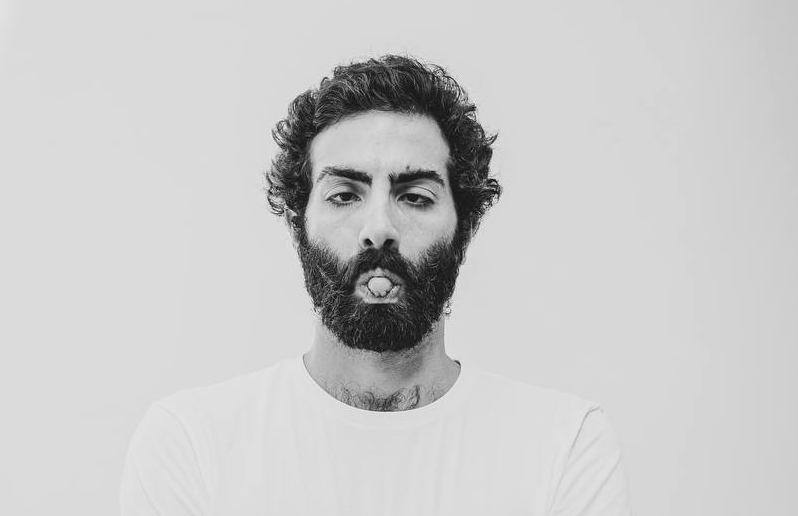
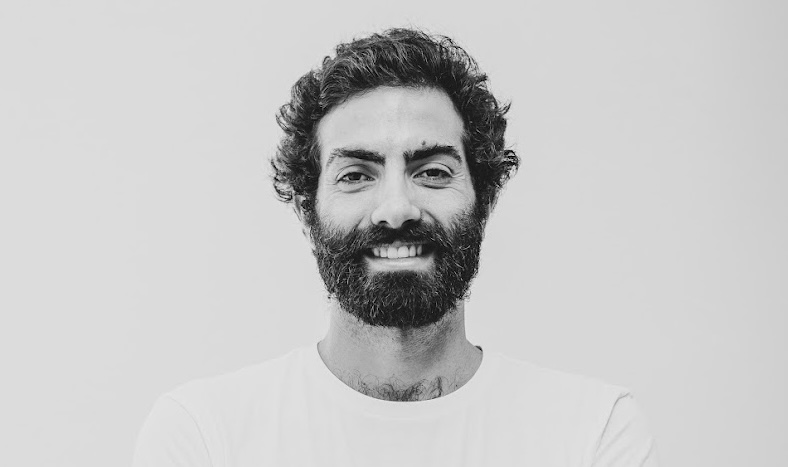
update

Changed region(s): [[0.335, 0.06, 0.6701, 0.8694]]

diff --git a/theme/templates/talks.html b/theme/templates/talks.html
@@ -1,14 +1,12 @@
-{% extends "base.html" %}
-
-{% block title %}{{ page.title }} - {{ SITENAME }} {% endblock %}
-
-
-{% block content %}
-        <div>
-
-<div class="talks">
-        {{ page.content }}
+{% extends "base.html" %} {% block title %}{{ SITENAME }}{% endblock %} {% block
+content %}
+<div class="article-list nu">
+  {% for talk in TALKS %}
+  <div class="article-content">
+    <span>{{ talk.text }}</span>- {% for link in talk.links %}
+    <a href="{{ link.url }}">{{ link.text }}</a> {% endfor %}
+  </div>
+  <div></div>
+  {% else %} No posts yet! {% endfor %}
 </div>
-
-        </div>
 {% endblock %}

diff --git a/pelicanconf.py b/pelicanconf.py
@@ -1,5 +1,3 @@
-from typing import List, Dict, Any
-
 AUTHOR = "Duarte O.Carmo"
 SITENAME = "Duarte O.Carmo"
 SITEURL = ""
@@ -88,7 +86,7 @@ MARKDOWN = {
         "markdown.extensions.toc",
         "markdown.extensions.fenced_code",
         "markdown.extensions.codehilite",
-        "markdown.extensions.tables"
+        "markdown.extensions.tables",
     ]
 }
 
@@ -111,34 +109,175 @@ SITEMAP = {
         "pages": "hourly",
     },
 }
-
-# Define a TALKS variable accessible in your templates
-TALKS: List[Dict[str, Any]] = [
+TALKS = [
     {
-        "title": "Panel: The Dashboard That Grew - A Scaling Saga",
-        "url": "https://pydata.org/global2024",
-        "resources": [
-            {"text": "slides", "url": "/pdfs/pydata-global-panel-the-dashboard-that-grew.pdf"}
+        "text": "Panel: The Dashboard That Grew - A Scaling Saga",
+        "links": [
+            {"text": "PyData Global 2024", "url": "https://pydata.org/global2024"},
+            {
+                "text": "slides",
+                "url": "/pdfs/pydata-global-panel-the-dashboard-that-grew.pdf",
+            },
         ],
     },
     {
-        "title": "You also hate SQL? Let the LLM handle it",
-        "url": "https://pyconwroclaw.com/",
-        "resources": [
-            {"text": "slides", "url": "/pdfs/pycon-wroclaw-llm-text-to-sql.pdf"}
+        "text": "You also hate SQL? Let the LLM handle it",
+        "links": [
+            {"text": "PyCon Wroclaw", "url": "https://pyconwroclaw.com/"},
+            {"text": "slides", "url": "/pdfs/pycon-wroclaw-llm-text-to-sql.pdf"},
         ],
     },
     {
-        "title": "Go Time",
-        "url": "https://changelog.com/gotime/308",
-        "resources": []
+        "text": "Go Time",
+        "links": [{"text": "podcast", "url": "https://changelog.com/gotime/308"}],
     },
     {
-        "title": "The A.I. and Digital Transformation Podcast",
-        "url": "https://www.gmscconsulting.com/ai-and-digital-transformation-podcast/episode-12",
-        "resources": [
-            {"text": "video", "url": "https://youtu.be/9l0BTZipArQ?si=uSpvwFWcIjYwu7Xn"}
+        "text": "The A.I. and Digital Transformation Podcast [podcast]",
+        "links": [
+            {
+                "text": "podcast",
+                "url": "https://www.gmscconsulting.com/ai-and-digital-transformation-podcast/episode-12",
+            },
+            {
+                "text": "video",
+                "url": "https://youtu.be/9l0BTZipArQ?si=uSpvwFWcIjYwu7Xn",
+            },
         ],
     },
-    # Add more talk entries as needed
+    {
+        "text": "Verbos AI Podcast",
+        "links": [
+            {
+                "text": "podcast",
+                "url": "https://open.spotify.com/episode/0Ja8xzuiOAYZeD4WSP8TxL?si=0JFkY1fWRwCf0_BkiUUfvA&nd=1",
+            },
+            {
+                "text": "video",
+                "url": "https://youtu.be/7nT4NrdjUF4?si=oLVzEF_iRE4qz_Qy",
+            },
+        ],
+    },
+    {
+        "text": "ML in the wild 2nd Edition",
+        "links": [
+            {"text": "DIS", "url": "https://disabroad.org/copenhagen/"},
+            {"text": "slides", "url": "/pdfs/ml-in-the-wild-v2.pdf"},
+        ],
+    },
+    {
+        "text": "An introduction to Google Earth Engine [EuroSciPy]",
+        "links": [
+            {"text": "EuroSciPy", "url": "https://www.euroscipy.org/2023/"},
+            {"text": "slides", "url": "/pdfs/euroscipy-gee-intro.pdf"},
+            {
+                "text": "video",
+                "url": "https://youtu.be/GXBPOlSxfoY?si=79ZSKAFu8vdW8J8W",
+            },
+        ],
+    },
+    {
+        "text": "On Scaling Machine Learning Microservices",
+        "links": [
+            {"text": "PyCon Italia", "url": "https://pycon.it/en"},
+            {"text": "slides", "url": "/pdfs/pycon-italia-scalable-ml.pdf"},
+            {"text": "video", "url": "https://www.youtube.com/watch?v=T1Je3UHkxVk"},
+        ],
+    },
+    {
+        "text": "Real Python Podcast",
+        "links": [
+            {"text": "podcast", "url": "https://realpython.com/podcasts/rpp/150/"}
+        ],
+    },
+    {
+        "text": "ML in the wild",
+        "links": [
+            {"text": "DIS", "url": "https://disabroad.org/copenhagen/"},
+            {"text": "slides", "url": "/pdfs/ml-in-the-wild.pdf"},
+            {"text": "feedback", "url": "/pdfs/dis_feedback.pdf"},
+        ],
+    },
+    {
+        "text": "MLOps for the rest of us",
+        "links": [
+            {
+                "text": "PyData Copenhagen",
+                "url": "https://www.meetup.com/pydata-copenhagen/",
+            },
+            {"text": "slides", "url": "/pdfs/pydata-cph-mlops-for-the-rest-of-us.pdf"},
+        ],
+    },
+    {
+        "text": "Bag of tricks to scale ML Apps",
+        "links": [
+            {
+                "text": "DTU MLOps Course",
+                "url": "https://skaftenicki.github.io/dtu_mlops/",
+            },
+            {"text": "slides", "url": "/pdfs/bag-of-tricks-scalable-api.pdf"},
+        ],
+    },
+    {
+        "text": "Taming the black box",
+        "links": [
+            {
+                "text": "DTU MLOps Course",
+                "url": "https://skaftenicki.github.io/dtu_mlops/",
+            },
+            {"text": "slides", "url": "/pdfs/mlops-monitoring-sanitized.pdf"},
+        ],
+    },
+    {
+        "text": "MLOps for the rest of us",
+        "links": [
+            {"text": "PyData Global", "url": "https://pydata.org/global2022/"},
+            {"text": "slides", "url": "/pdfs/mlops-for-the-rest-of-us.pdf"},
+            {"text": "video", "url": "https://www.youtube.com/watch?v=R6lPb9Meqoc"},
+        ],
+    },
+    {
+        "text": "MLOps Live Podcast",
+        "links": [
+            {
+                "text": "podcast",
+                "url": "https://podcasts.bcast.fm/e/r8k1qky8-early-stage-startups-small-teams-mlops-duarte-carmo",
+            },
+            {"text": "video", "url": "https://youtu.be/sqv1ydViDgA"},
+        ],
+    },
+    {
+        "text": "Machine learning! (But in the real world)",
+        "links": [
+            {"text": "LIP Coimbra", "url": "https://pages.lip.pt/data-science/"},
+            {"text": "slides", "url": "/pdfs/lip-2022-sanitized.pdf"},
+        ],
+    },
+    {
+        "text": "Four years of Python",
+        "links": [
+            {"text": "PyCon Italia", "url": "https://pycon.it/en"},
+            {"text": "slides", "url": "/pdfs/four-years-of-python-pycon.pdf"},
+            {"text": "video", "url": "https://www.youtube.com/watch?v=zB_Hr-05Stc"},
+        ],
+    },
+    {
+        "text": "Four years of Python",
+        "links": [
+            {
+                "text": "PyData Copenhagen",
+                "url": "https://www.meetup.com/pydata-copenhagen/",
+            },
+            {"text": "slides", "url": "/pdfs/four-years-of-python-pydata.pdf"},
+        ],
+    },
+    {
+        "text": "Measuring the uniqueness of technological capabilities",
+        "links": [
+            {"text": "DTU", "url": "https://www.dtu.dk/english"},
+            {
+                "text": "slides",
+                "url": "https://dl.dropboxusercontent.com/s/8h2kvhu6detyo82/Presentation%20Public.pdf",
+            },
+        ],
+    },
 ]
